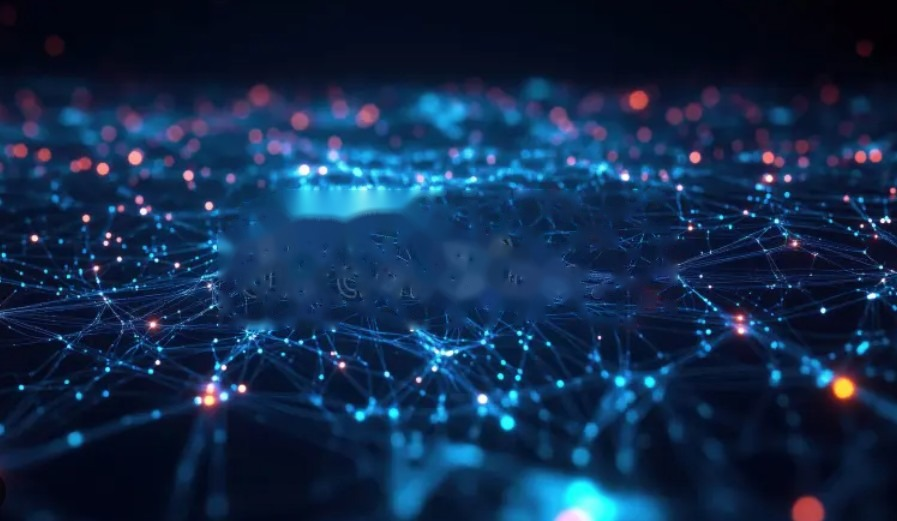
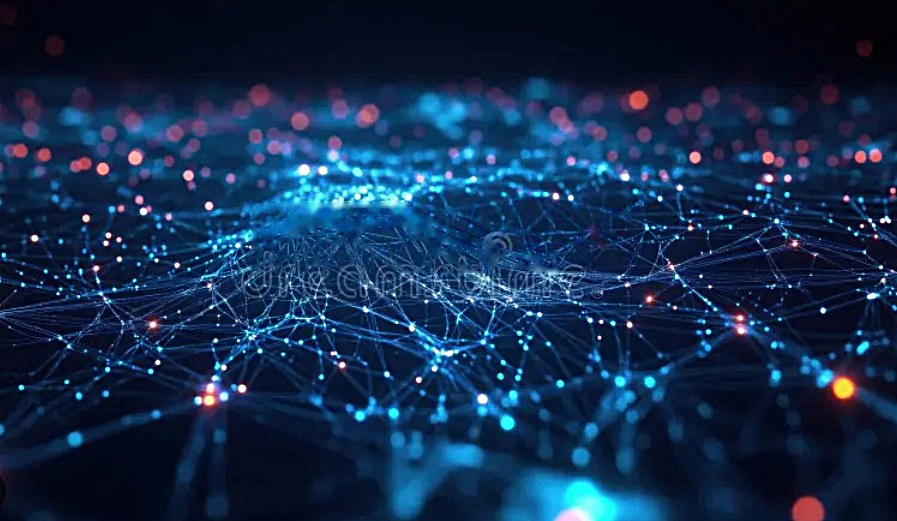
Förbättra bakgrundsbild – skärp, ta bort vattenstämpel korrekt, justera overlay
- Återställ originalbild från git-historik
- Skärp bilden med unsharp mask (faktor 1.8)
- Precis vattenstämpelborttagning (9761 px mask, radius 5)
- Overlay 35% för balans mellan synlig bild och läsbart innehåll

diff --git a/frontend/static/style.css b/frontend/static/style.css
@@ -64,7 +64,7 @@ body::before {
   content: '';
   position: fixed;
   inset: 0;
-  background: rgba(4,13,30,.10);
+  background: rgba(4,13,30,.35);
   z-index: 0;
   pointer-events: none;
 }
